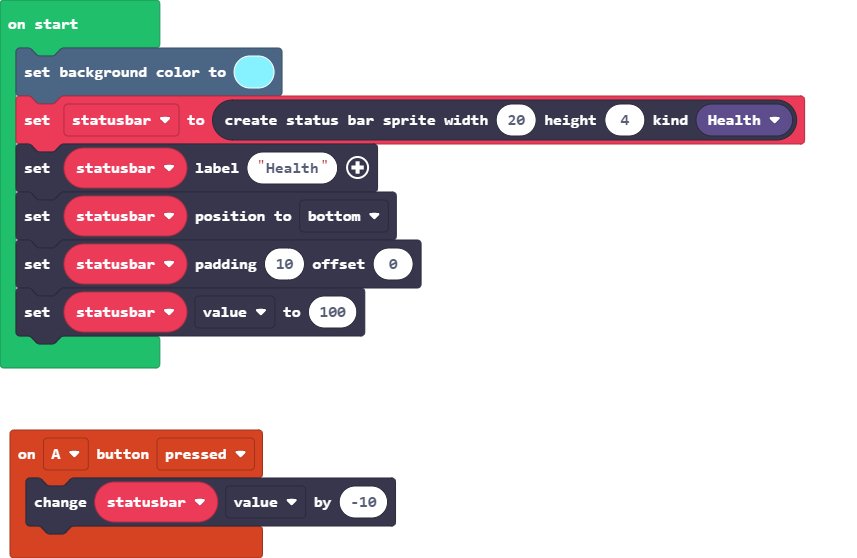
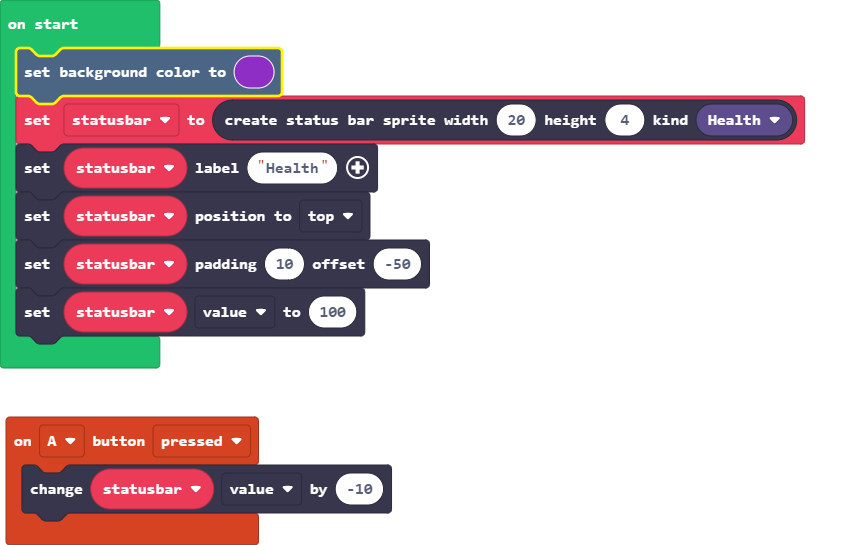
purple background

Changed region(s): [[0.0, 0.0312, 0.9405, 0.6862], [0.0, 0.7486, 0.4854, 1.0], [0.273, 0.9982, 0.3034, 1.0]]

diff --git a/main.ts b/main.ts
@@ -2,9 +2,9 @@ controller.A.onEvent(ControllerButtonEvent.Pressed, function () {
     statusbar.value += -10
 })
 let statusbar: StatusBarSprite = null
-scene.setBackgroundColor(9)
+scene.setBackgroundColor(10)
 statusbar = statusbars.create(20, 4, StatusBarKind.Health)
 statusbar.setLabel("Health")
-statusbar.positionDirection(CollisionDirection.Bottom)
-statusbar.setOffsetPadding(0, 10)
+statusbar.positionDirection(CollisionDirection.Top)
+statusbar.setOffsetPadding(-50, 10)
 statusbar.value = 100
